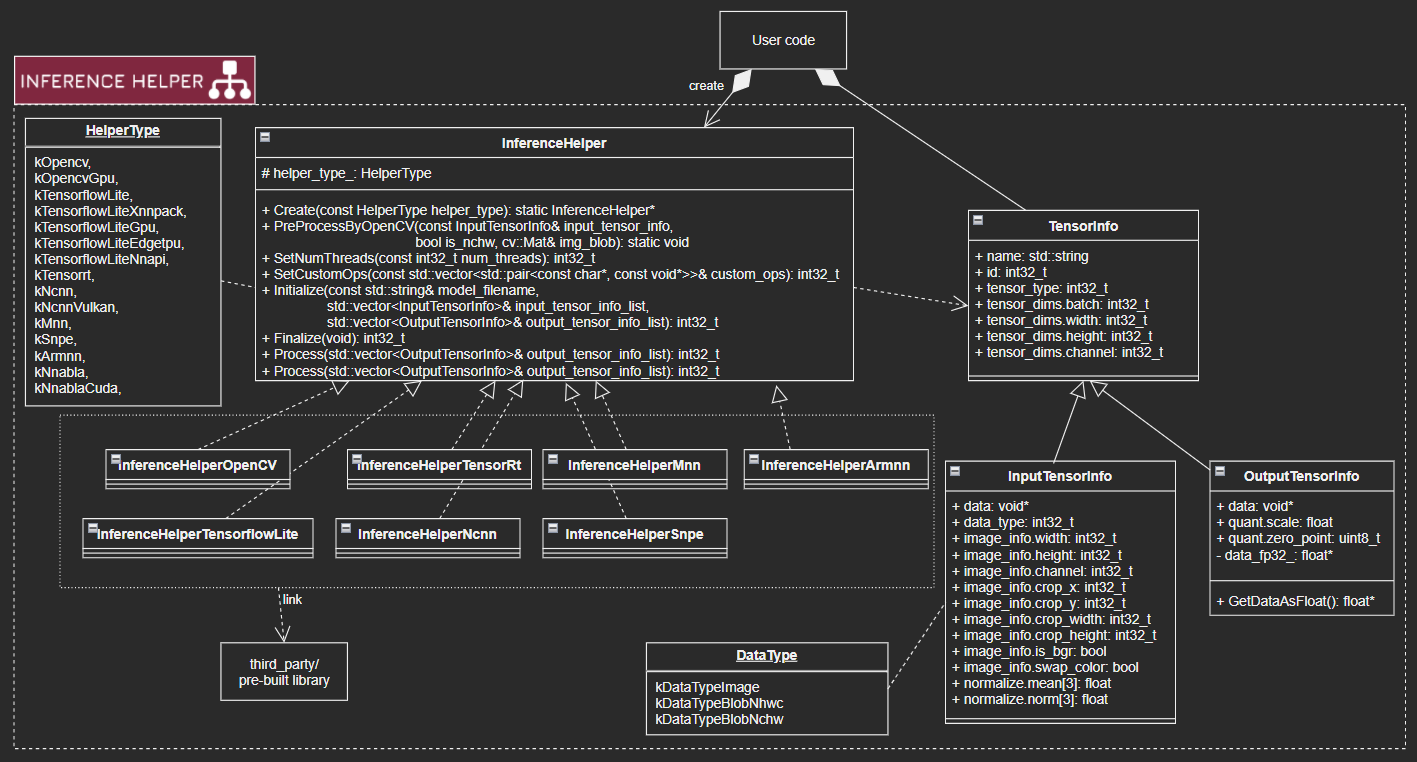
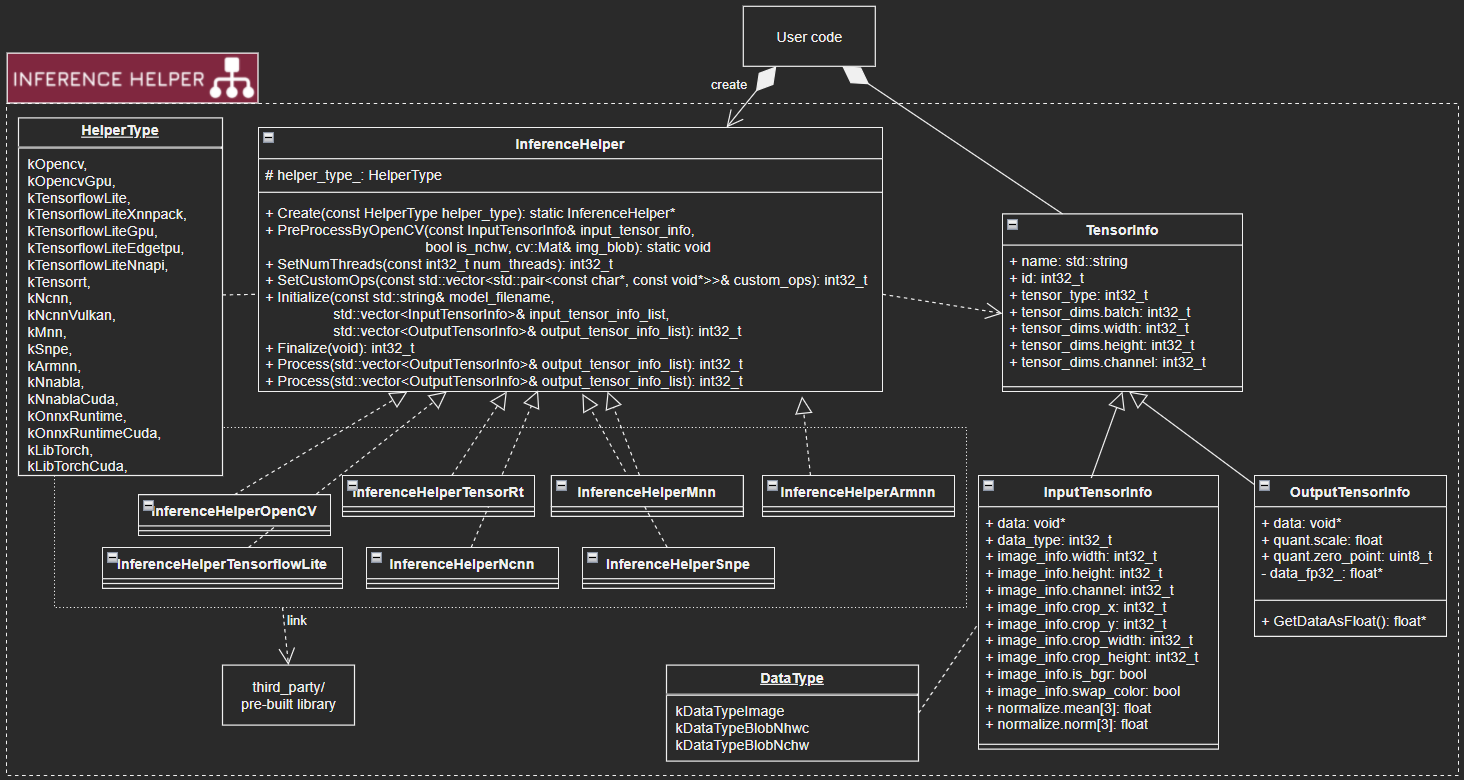
[ONNX] Update README and diagrams

diff --git a/README.md b/README.md
@@ -20,6 +20,9 @@
 - Arm NN
 - NNabla
 - NNabla with CUDA
+- ONNX Runtime
+- ONNX Runtime with CUDA
+- [todo] LibTorch
 
 ![Overview](00_doc/overview.jpg) 
 
@@ -45,6 +48,7 @@
 | SNPE                      | Unsupported                                   | Unsupported                                   | <ul><li> [ ] Build</li><li>[ ] Test </li></ul>| <ul><li> [ ] Build</li><li>[ ] Test </li></ul>| <ul><li> [ ] Build</li><li>[ ] Test </li></ul> |
 | Arm NN                    | Unsupported                                   | <ul><li> [x] Build</li><li>[x] Test </li></ul>| Unsupported                                   | <ul><li> [x] Build</li><li>[x] Test </li></ul>| Unsupported                                    |
 | NNabla                    | <ul><li> [x] Build</li><li>[x] Test </li></ul>| <ul><li> [ ] Build</li><li>[ ] Test </li></ul>| Unsupported                                   | <ul><li> [ ] Build</li><li>[ ] Test </li></ul>| Unsupported                                    |
+| ONNX Runtime              | <ul><li> [x] Build</li><li>[x] Test </li></ul>| <ul><li> [x] Build</li><li>[x] Test </li></ul>| <ul><li> [ ] Build</li><li>[ ] Test </li></ul>| <ul><li> [x] Build</li><li>[x] Test </li></ul>| <ul><li> [x] Build</li><li>[ ] Test </li></ul> |
 
 * Unchedked(blank) doesn't mean that the framework is unsupported. Unchecked just means that the framework is not tested in CI. For instance, TensorRT on Windows/Linux works and I confirmed it in my PC, but can't run it in CI. Also, some build/test (e.g. ncnn + Linux+ARM) are skipped because pre-built libraries are not provided. It should work if you build a library by yourself.
 
@@ -145,6 +149,10 @@ You need some additional steps if you use the frameworks listed below
     cmake .. -DINFERENCE_HELPER_ENABLE_NNABLA=on
     # NNabla with CUDA
     cmake .. -DINFERENCE_HELPER_ENABLE_NNABLA_CUDA=on
+    # ONNX Runtime
+    cmake .. -DINFERENCE_HELPER_ENABLE_ONNX_RUNTIME=on
+    # ONNX Runtime with CUDA
+    cmake .. -DINFERENCE_HELPER_ENABLE_ONNX_RUNTIME_CUDA=on
     ```
 
 - Enable/Disable preprocess using OpenCV:
@@ -176,6 +184,8 @@ typedef enum {
     kArmnn,
     kNnabla,
     kNnablaCuda,
+    kOnnxRuntime,
+    kOnnxRuntimeCuda,
 } HelperType;
 ```
 
